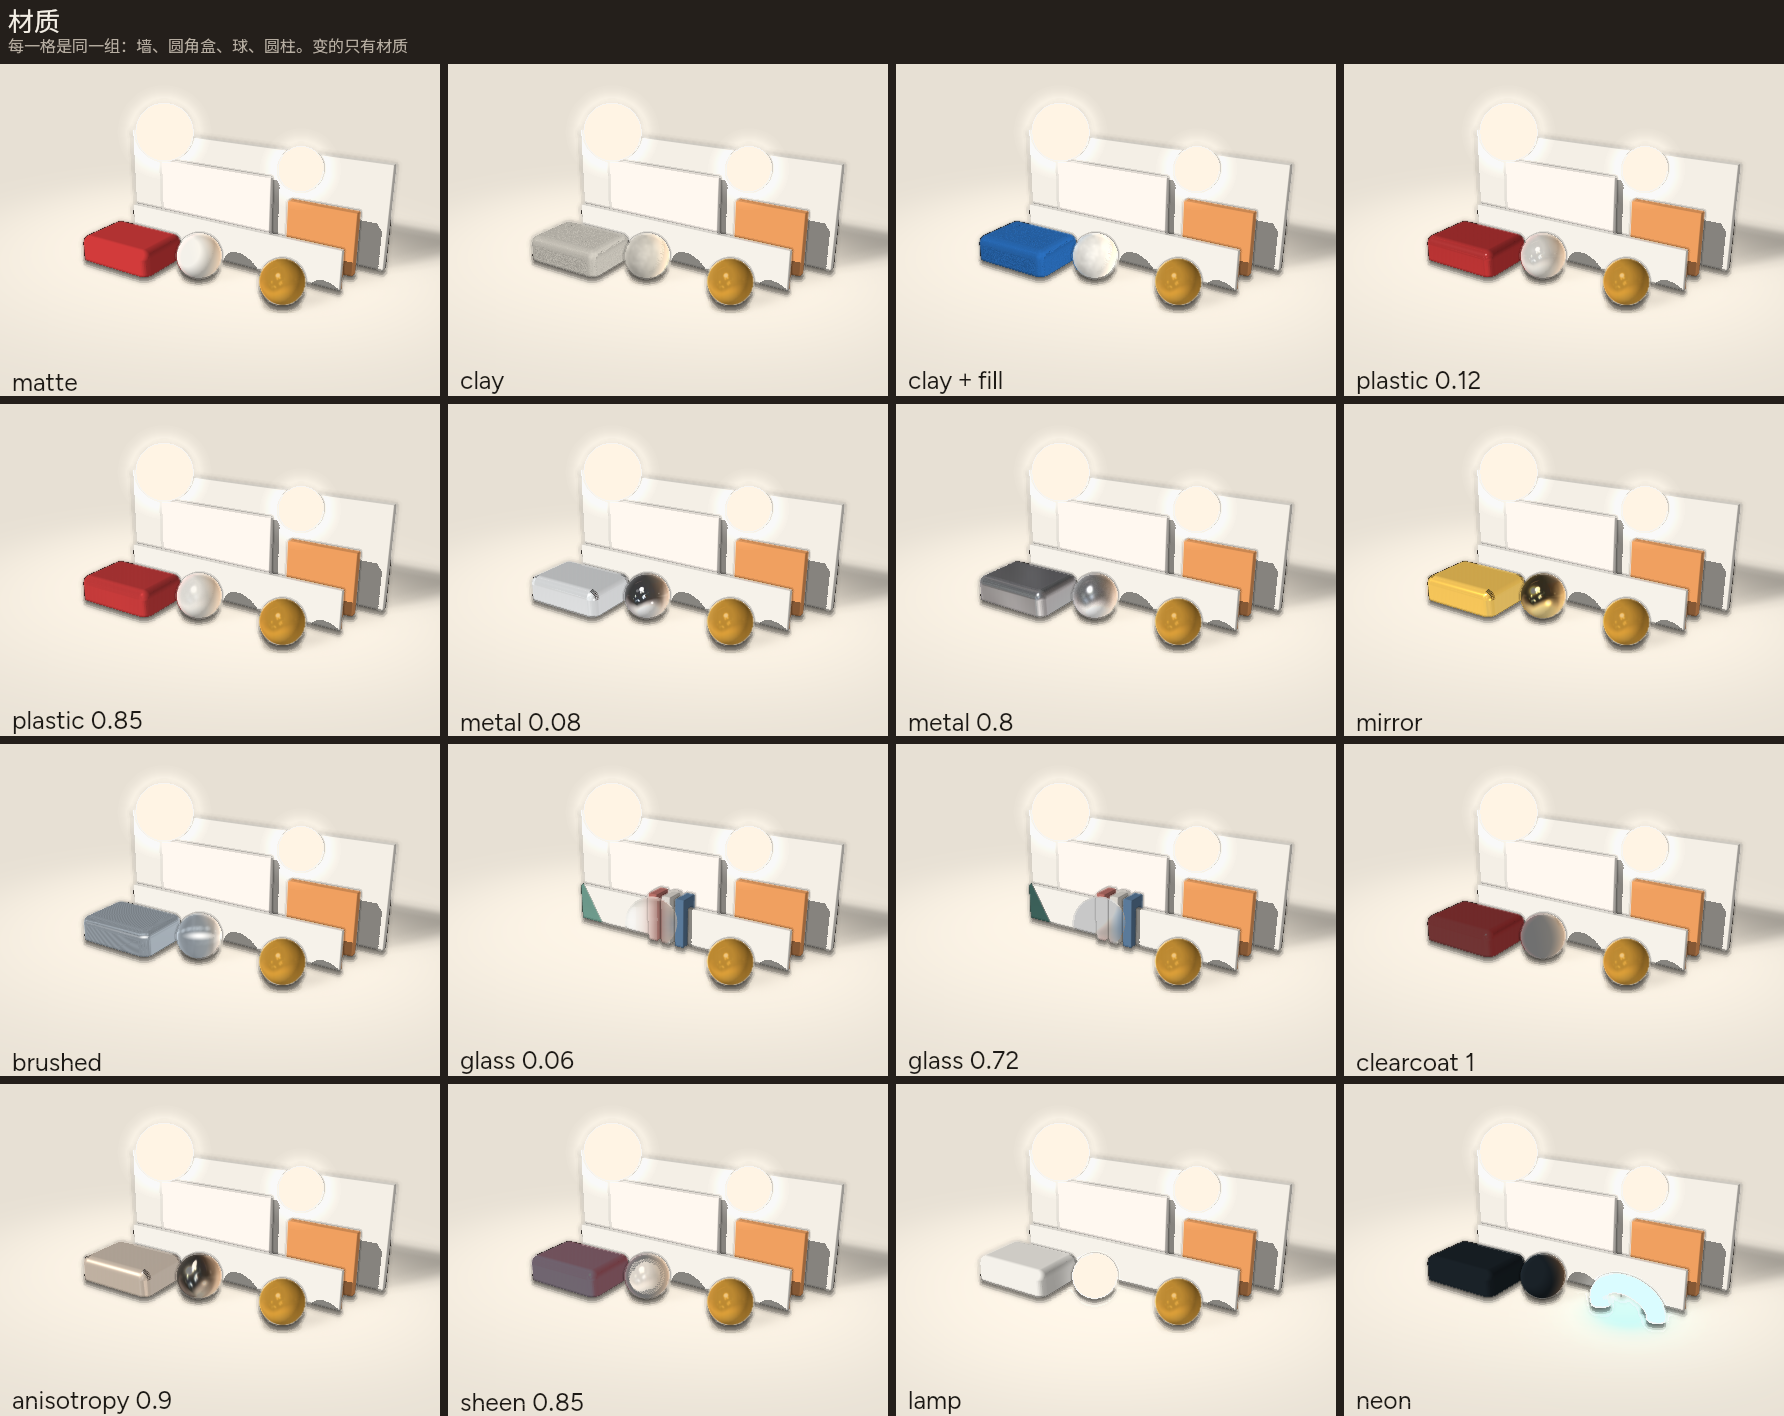
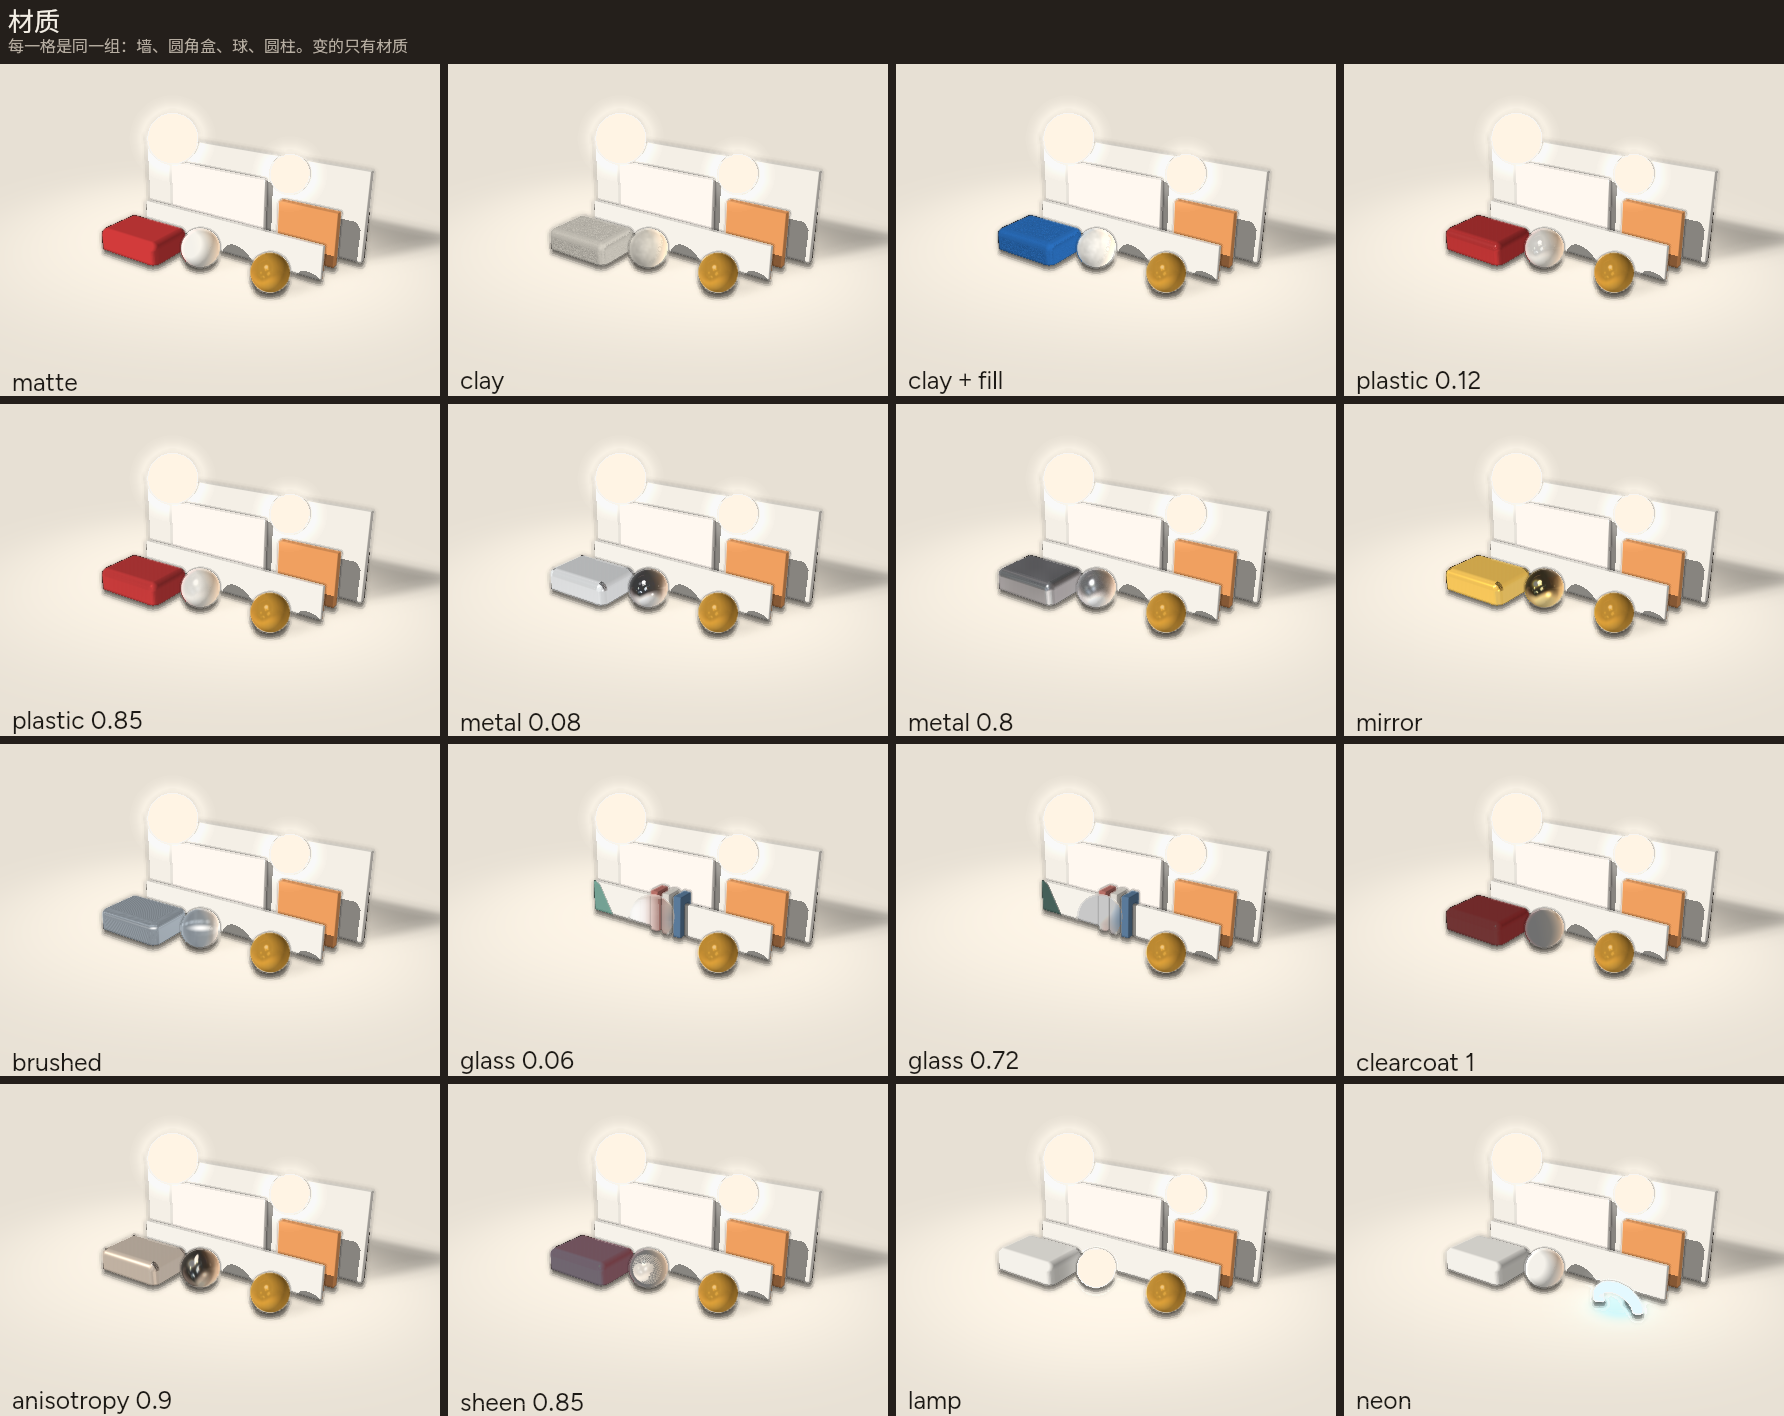
QUALITY-6 yawrest: restore yawback materials; silvercube model
matclose regressed materials/still/mac. Restore yawback glass
framing and neon; Standard metal uses silvercube heat with mild
yaw. Keep the larger GLB diamond.

diff --git a/scripts/gallery-3d.ts b/scripts/gallery-3d.ts
@@ -135,15 +135,15 @@ const FINISHES: Finish[] = [
     // Glassmass: metfix A+B materials 6 — yawed mint nearly vanished. Larger
     // denser box, milder yaw; sphere fill denser so the disk still reads.
     label: 'glass 0.06',
-    box: 'fill="#3d8a76f2" material="glass 0.06"',
-    sphere: 'fill="#b8e4d8d0" material="glass 0.06"',
+    box: 'fill="#449884f0" material="glass 0.06"',
+    sphere: 'fill="#c4eadfd0" material="glass 0.06"',
     side: 'fill="#e0a33a"',
     stripes: true,
   },
   {
     label: 'glass 0.72',
-    box: 'fill="#2a5a52f2" material="glass 0.72"',
-    sphere: 'fill="#8eb0a8e8" material="glass 0.72"',
+    box: 'fill="#355a52f0" material="glass 0.72"',
+    sphere: 'fill="#9cb8b0e8" material="glass 0.72"',
     side: 'fill="#e0a33a"',
     stripes: true,
   },
@@ -176,10 +176,9 @@ const FINISHES: Finish[] = [
   },
   {
     label: 'neon',
-    // Matclose: metshine A+B neon = shapeless cyan blob. Larger glowing torus.
-    box: 'fill="#1a2228"',
-    sphere: 'fill="#1a2228"',
-    side: 'fill="#40f0ff" material="neon"',
+    box: 'fill="#f4f1ea"',
+    sphere: 'fill="#f4f1ea"',
+    side: 'material="neon"',
     neon: true,
   },
 ]
@@ -201,27 +200,24 @@ function cluster(finish: Finish): string {
     : finish.stripes
       ? `<sphere id="sphere" cx="210" cy="70" r="34" z="50" ${finish.sphere} />`
       : `<sphere id="sphere" cx="204" cy="72" r="30" z="30" ${finish.sphere} />`
-  // Yawback: squat hard-yaw box left of thinbars (boxyaw B materials 7);
-  // glassmass fat -18 yaw read as RGB fragments again.
+  // Yawrest: restore yawback squat hard-yaw (matclose closer/denser regressed).
   const box = finish.stripes
     ? glassCell
-      ? `<rect id="box" x="-18" y="34" width="124" height="68" depth="118" rx="16" rotateY="-30" ${finish.box} />`
+      ? `<rect id="box" x="-4" y="38" width="120" height="64" depth="120" rx="16" rotateY="-28" ${finish.box} />`
       : `<rect id="box" x="14" y="14" width="158" height="110" depth="98" rx="16" ${finish.box} />`
     : `<rect id="box" x="28" y="30" width="120" height="86" depth="72" rx="12" ${finish.box} />`
   // Gold accent sphere (not finish.side): metal cells used to paint two
   // identical chrome spheres and dual-blind called them inseparable clones
   // (§9.2). Extruded-circle sides also scooped hollow. Neon keeps its torus.
   const side = finish.neon
-    ? `<torus id="side" cx="320" cy="72" r="40" tube="12" z="20" ${finish.side} rotateX="70" />`
+    ? `<torus id="side" cx="330" cy="78" r="32" tube="8" z="14" ${finish.side} rotateX="70" />`
     : `<sphere id="side" cx="330" cy="78" r="28" z="28" fill="#e0a33a" material="plastic 0.35" />`
   // Warm back + accent + lamp keys so polished metal shows a highlight
   // instead of near-black (QUALITY-6 §9.2). Keep studio orbit for gates.
   // Fillmild: drop key3 — third lamp read as wall/halo cluster under §9.2 B.
   // Fillmild framing (860). Closer pulls blew glass SSIM; dual-blind empty
   // cells are a look tip, not a gate lever.
-  // Matclose: metshine A materials 6 — samples too small. Pull in to 800;
-  // glass SSIM must stay clear≥0.6 frost≤0.3.
-  return `<layer width="440" height="300" camera="fov 30, orbit 32 20, distance 800, at 220 155 0">
+  return `<layer width="440" height="300" camera="fov 32, orbit 34 22, distance 860, at 220 160 0">
     <ground id="ground" y="220" rotateX="90" fill="#e7e0d4" shadow-blur="32" shadow-opacity="0.35" />
     <layer x="28" y="220" width="400" height="190" origin="200 0" rotateX="90" preserve-3d>
       <rect id="back" x="-30" y="-90" width="440" height="14" depth="300" fill="#f4efe6" />

diff --git a/docs/gallery/3d/model/standard-metal.tsx b/docs/gallery/3d/model/standard-metal.tsx
@@ -4,37 +4,37 @@ import * as THREE from 'three'
 
 // QUALITY-6 §E.2 cell 1: MeshStandardMaterial, metalness 1.
 // SPEC maps metalness ≥ 0.5 to `metal`. Keep Standard (not Physical).
-// Matclose: metshine B Standard read matte white under flood lamps — darker
-// lid + saturated bounce cards so SSR reflections contrast; keep yaw.
+// Yawrest: matclose regressed materials; restore yawback glass. Model uses
+// silvercube lamp heat (A+B model 7) plus metform yaw so bounce cards read.
 const mesh = new THREE.Mesh(
   new THREE.BoxGeometry(1, 1, 1),
-  new THREE.MeshStandardMaterial({ color: '#9aa6b4', metalness: 1, roughness: 0.02 }),
+  new THREE.MeshStandardMaterial({ color: '#d0d8e2', metalness: 1, roughness: 0.02 }),
 )
-mesh.rotation.y = 0.42
-mesh.rotation.x = -0.1
+mesh.rotation.y = 0.34
+mesh.rotation.x = -0.06
 
 export default layer.create(
-  <layer width={440} height={300} background="#1c1816">
+  <layer width={440} height={300} background="#241f1b">
     <layer
       width={440}
       height={300}
-      camera="fov 34, orbit 40 22, distance 860, at 220 198 0"
+      camera="fov 34, orbit 38 24, distance 860, at 220 200 0"
       light="world"
       quality="final"
     >
-      <light type="hemisphere" intensity="0.28" color="#dce6f0" ground-color="#1e242c" />
-      <light type="directional" intensity="0.7" color="#ffffff" x="-200" y="-400" z="520" target="0 0 0" />
-      <light type="point" intensity="1.6" color="#ffffff" x="320" y="20" z="240" distance="700" />
-      <light type="point" intensity="1.8" color="#6ab0ff" x="-140" y="50" z="200" distance="500" />
-      <ground y={220} rotateX={90} fill="#222830" shadow-blur={52} shadow-opacity={0.38} />
-      <sphere cx="88" cy="125" r="36" z="95" fill="#fff4ea" material="lamp" />
-      <sphere cx="348" cy="120" r="32" z="90" fill="#4a9cff" material="lamp" />
+      <light type="hemisphere" intensity="0.42" color="#e8eef4" ground-color="#3a4048" />
+      <light type="directional" intensity="0.85" color="#ffffff" x="-180" y="-420" z="520" target="0 0 0" />
+      <light type="point" intensity="2.4" color="#ffffff" x="300" y="40" z="220" distance="700" />
+      <light type="point" intensity="2.0" color="#8ec8ff" x="-120" y="60" z="180" distance="500" />
+      <ground y={220} rotateX={90} fill="#2a3038" shadow-blur={52} shadow-opacity={0.34} />
+      <sphere cx="95" cy="130" r="34" z="90" fill="#f0ebe4" material="lamp" />
+      <sphere cx="340" cy="125" r="30" z="85" fill="#5aa8ff" material="lamp" />
       <layer x={28} y={220} width={400} height={190} origin="200 0" rotateX={90} preserve-3d>
-        <rect x="-10" y="-80" width="420" height="12" depth="260" fill="#14181e" />
-        <rect x="250" y="-45" width="150" height="12" depth="190" fill="#e87838" />
-        <rect x="20" y="-30" width="110" height="10" depth="170" fill="#3a8fd8" />
-        <rect x="70" y="-55" width="170" height="8" depth="210" fill="#fff6ee" />
-        <model object={mesh} unit={120} x={200} y={188} material="finish metal, color #9aa6b4, roughness 0.02, metalness 1" />
+        <rect x="-10" y="-80" width="420" height="12" depth="260" fill="#1a1e24" />
+        <rect x="250" y="-45" width="140" height="12" depth="180" fill="#d87840" />
+        <rect x="30" y="-30" width="100" height="10" depth="160" fill="#4a8fd0" />
+        <rect x="80" y="-55" width="160" height="8" depth="200" fill="#fff4ea" />
+        <model object={mesh} unit={120} x={200} y={190} material="finish metal, color #c4ced8, roughness 0.02, metalness 1" />
       </layer>
     </layer>
     <layer x={12} y={272}>
